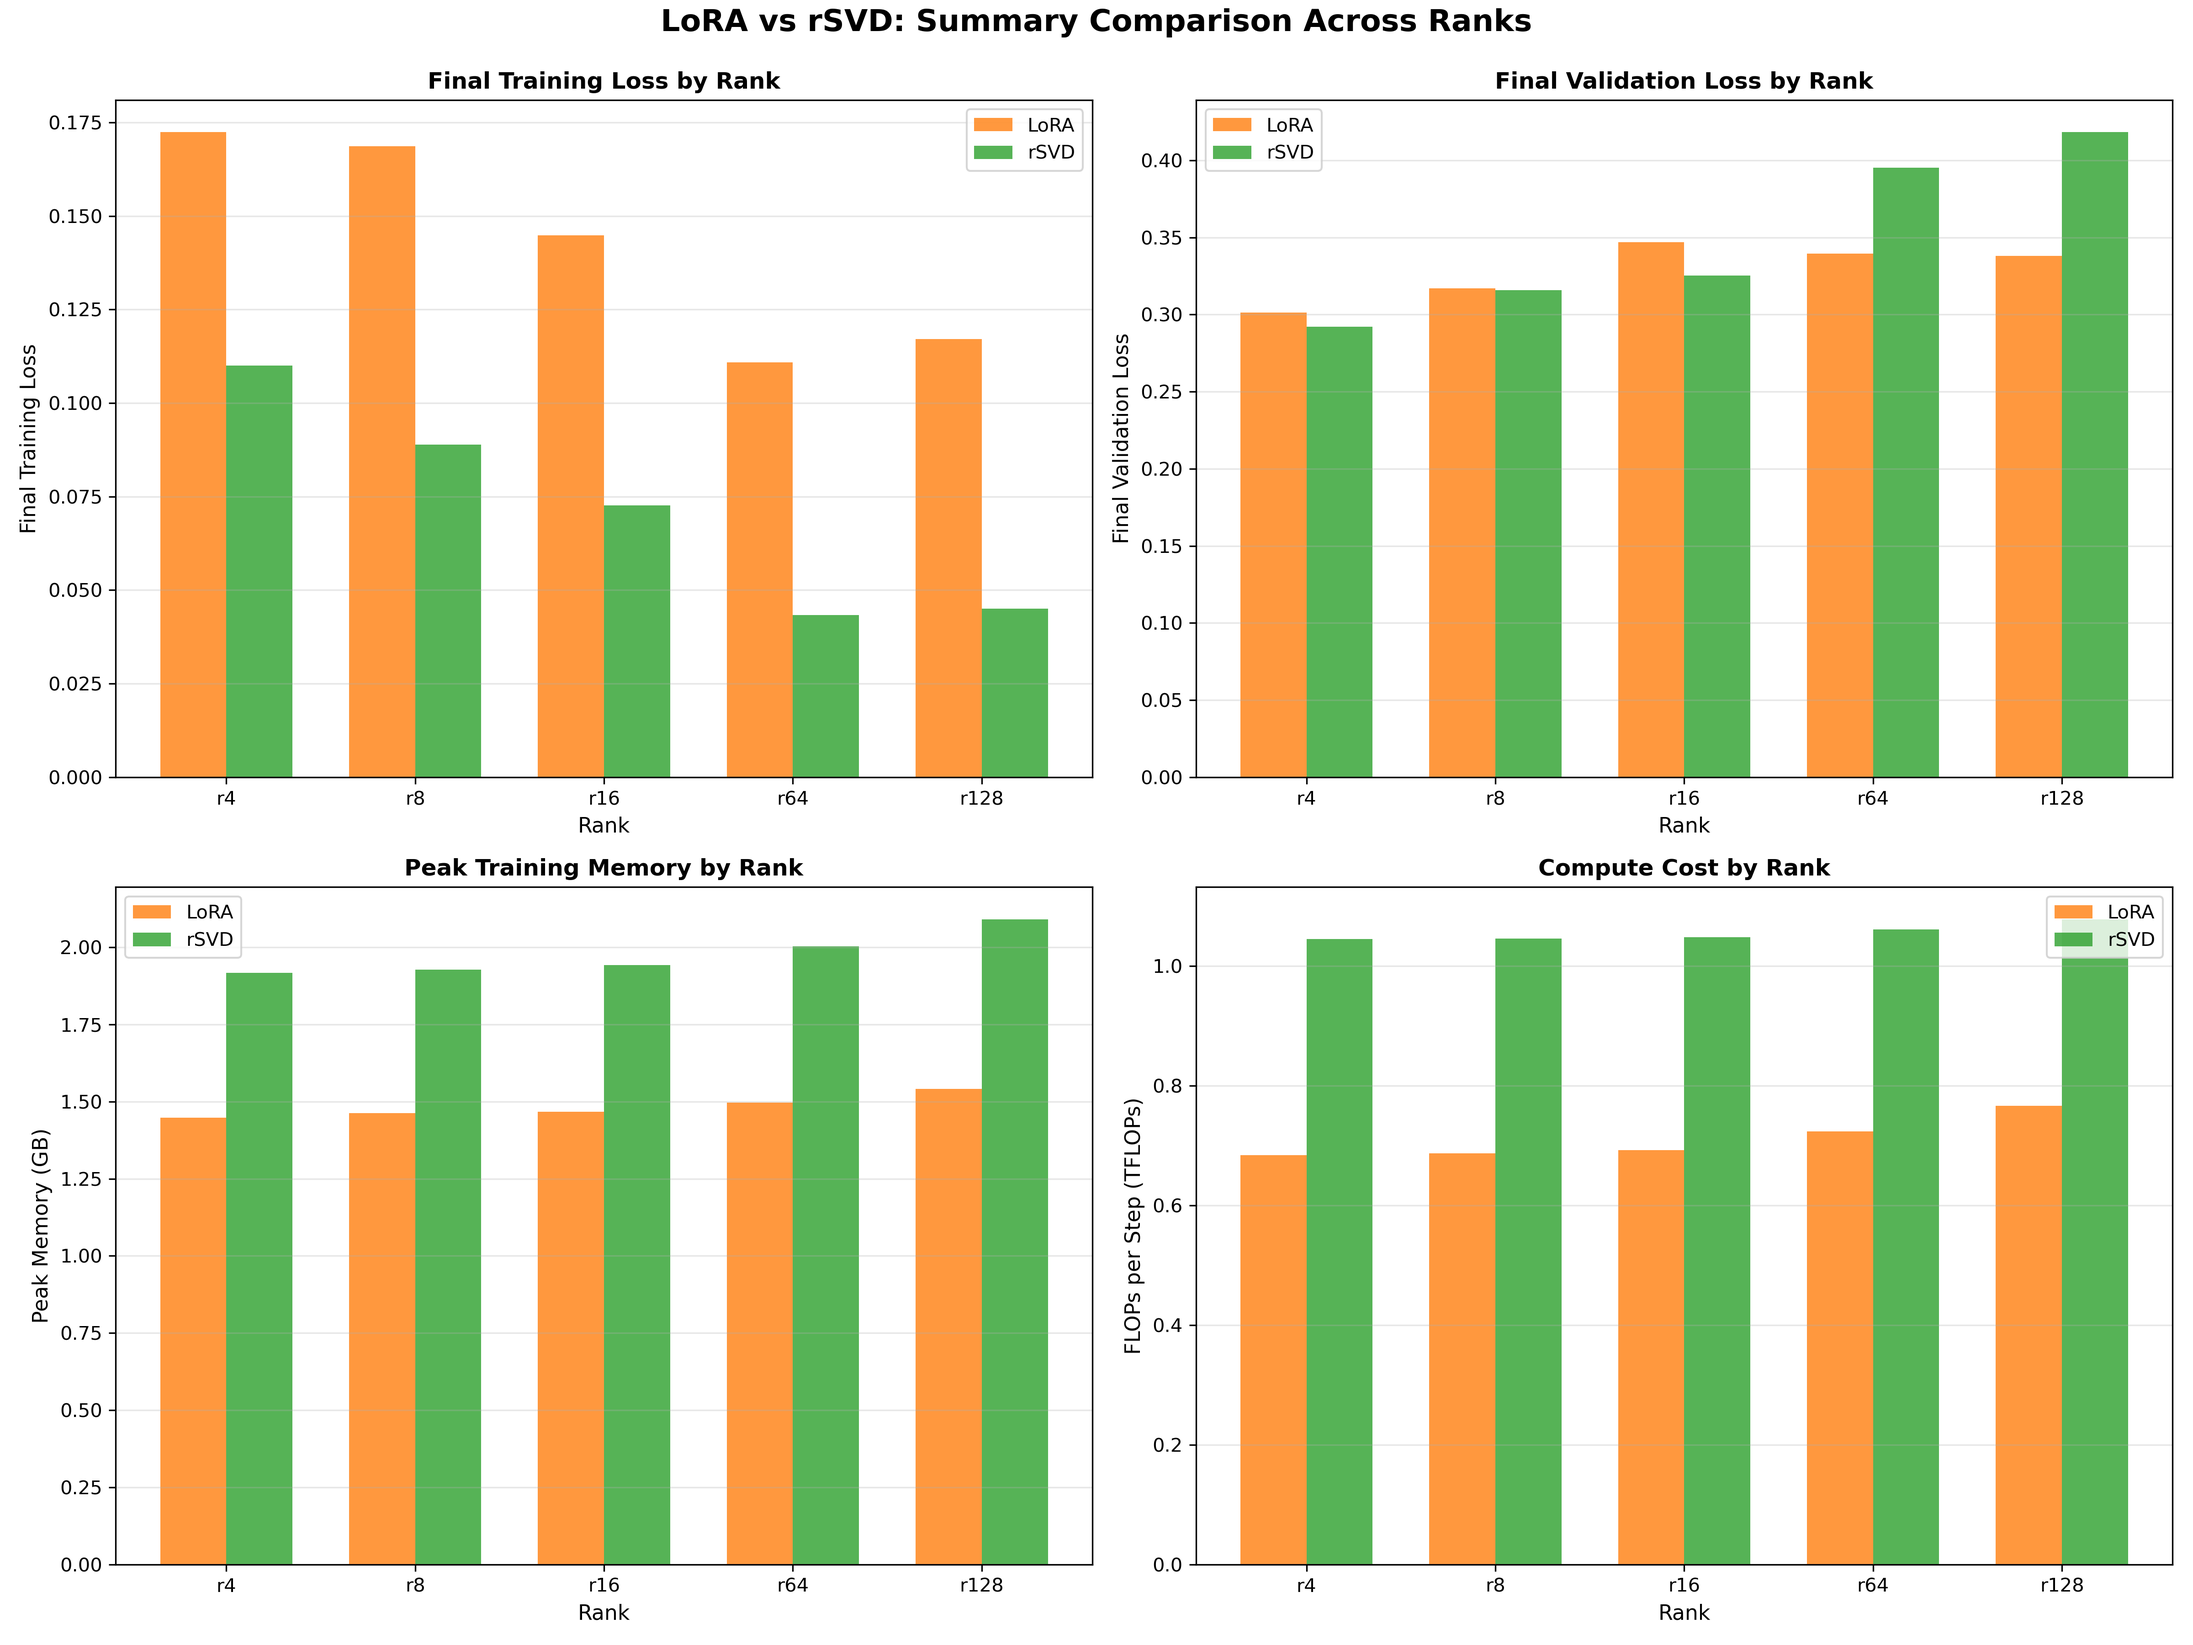
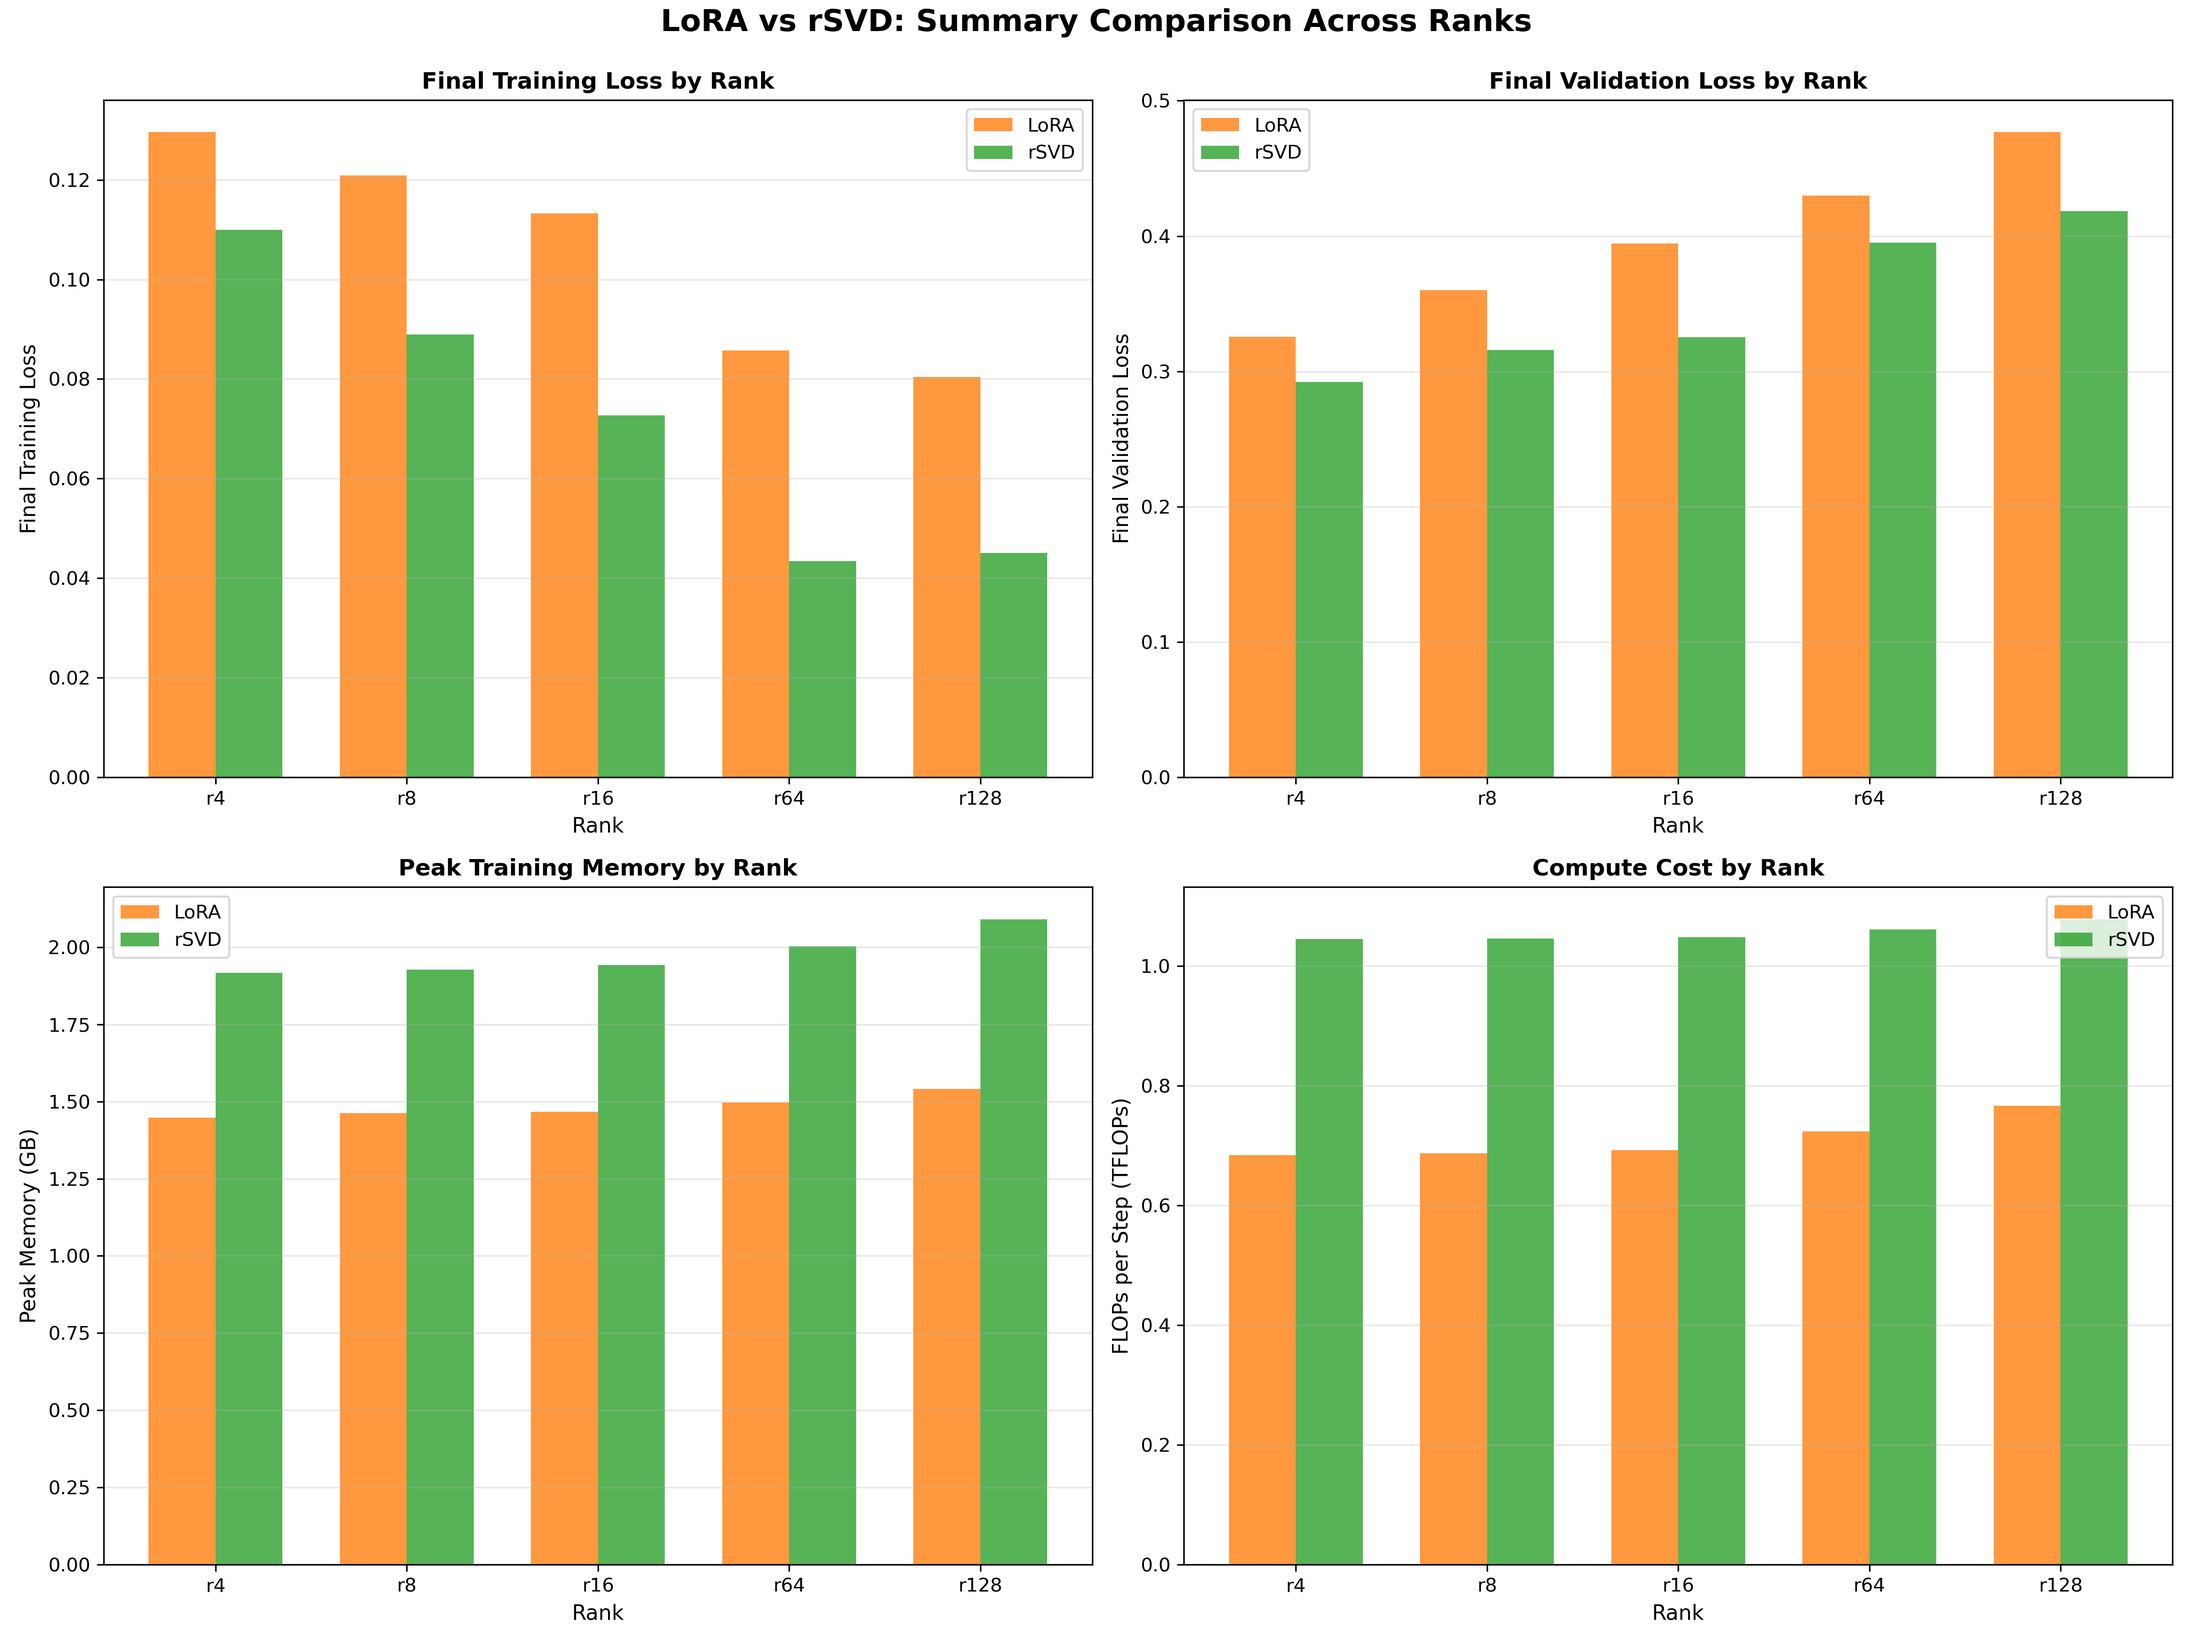
Comparison plots with merged branches

diff --git a/rSVD/graph/compare_lora_rsvd.py b/rSVD/graph/compare_lora_rsvd.py
@@ -21,8 +21,9 @@ import numpy as np
 
 # Configuration
 # Paths relative to where script is run (should be from rSVD/graph directory)
-LORA_BASE_PATH = "../../Lora/graph"
+LORA_BASE_PATH = "../../Lora/graph/sst2"  # LoRA data is in sst2 subdirectory
 RSVD_BASE_PATH = "."
+RSVD_SVT_BASE_PATH = "../../rSVD_SVT_Fixed_Rank/sst/graph"  # rSVD SVT data
 OUTPUT_DIR = "./plots"
 
 # Define which ranks to compare (should match between LoRA and rSVD)
@@ -304,17 +305,19 @@ def plot_memory_vs_rank(lora_data, rsvd_data):
     print("✓ Saved memory_vs_rank.png")
 
 
-def plot_flops_vs_rank(lora_data, rsvd_data):
+def plot_flops_vs_rank(lora_data, rsvd_data, rsvd_svt_data=None):
     """Plot FLOPs per step vs rank."""
-    fig, ax = plt.subplots(figsize=(8, 6))
+    fig, ax = plt.subplots(figsize=(10, 6))
     
     lora_flops = []
     rsvd_flops = []
+    rsvd_svt_flops = []
     available_ranks = []
     
     for rank in RANKS:
         lora_flop = None
         rsvd_flop = None
+        rsvd_svt_flop = None
         
         if rank in lora_data and lora_data[rank] and 'flops' in lora_data[rank]:
             df = lora_data[rank]['flops']
@@ -328,16 +331,26 @@ def plot_flops_vs_rank(lora_data, rsvd_data):
             if len(step_flops) > 0:
                 rsvd_flop = step_flops[0] / 1e12
         
-        if lora_flop is not None or rsvd_flop is not None:
+        if rsvd_svt_data and rank in rsvd_svt_data and rsvd_svt_data[rank] and 'flops' in rsvd_svt_data[rank]:
+            df = rsvd_svt_data[rank]['flops']
+            step_flops = df.loc[df['metric'] == 'step_flops', 'value'].values
+            if len(step_flops) > 0:
+                rsvd_svt_flop = step_flops[0] / 1e12
+        
+        if lora_flop is not None or rsvd_flop is not None or rsvd_svt_flop is not None:
             available_ranks.append(rank)
             lora_flops.append(lora_flop if lora_flop is not None else np.nan)
             rsvd_flops.append(rsvd_flop if rsvd_flop is not None else np.nan)
+            rsvd_svt_flops.append(rsvd_svt_flop if rsvd_svt_flop is not None else np.nan)
     
     if available_ranks:
         ax.plot(available_ranks, lora_flops, marker='o', label='LoRA', 
                 linewidth=2, markersize=8, color='#ff7f0e')
         ax.plot(available_ranks, rsvd_flops, marker='s', label='rSVD', 
                 linewidth=2, markersize=8, color='#2ca02c')
+        if rsvd_svt_data:
+            ax.plot(available_ranks, rsvd_svt_flops, marker='^', label='rSVD SVT', 
+                    linewidth=2, markersize=8, color='#9467bd', linestyle=':')
         ax.set_xlabel('Rank', fontsize=12)
         ax.set_ylabel('FLOPs per Step (TFLOPs)', fontsize=12)
         ax.set_title('Compute Cost (FLOPs per Step) vs Rank', fontsize=14, fontweight='bold')
@@ -346,15 +359,20 @@ def plot_flops_vs_rank(lora_data, rsvd_data):
         ax.set_xticks(available_ranks)
     
     plt.tight_layout()
-    plt.savefig(os.path.join(OUTPUT_DIR, "flops_vs_rank.png"), dpi=300)
+    plt.savefig(os.path.join(OUTPUT_DIR, "flops_comparison_lora_rsvd.png"), dpi=300)
     plt.close()
-    print("✓ Saved flops_vs_rank.png")
+    print("✓ Saved flops_comparison_lora_rsvd.png")
 
 
 def plot_summary_by_rank(lora_data, rsvd_data):
     """Create summary comparison plots grouped by rank."""
-    num_ranks = len([r for r in RANKS if (r in lora_data and lora_data[r]) or (r in rsvd_data and rsvd_data[r])])
-    if num_ranks == 0:
+    # Build list of available ranks (where at least one method has data)
+    ranks_list = []
+    for rank in RANKS:
+        if (rank in lora_data and lora_data[rank]) or (rank in rsvd_data and rsvd_data[rank]):
+            ranks_list.append(rank)
+    
+    if len(ranks_list) == 0:
         return
     
     fig, axes = plt.subplots(2, 2, figsize=(16, 12))
@@ -363,39 +381,31 @@ def plot_summary_by_rank(lora_data, rsvd_data):
     ax = axes[0, 0]
     lora_train = []
     rsvd_train = []
-    ranks_list = []
     
-    for rank in RANKS:
+    for rank in ranks_list:
         if rank in lora_data and lora_data[rank] and 'loss' in lora_data[rank]:
             final_loss = lora_data[rank]['loss']['train_loss'].iloc[-1]
             lora_train.append(final_loss)
-            if rank not in ranks_list:
-                ranks_list.append(rank)
         else:
-            if rank in ranks_list:
-                lora_train.append(np.nan)
+            lora_train.append(np.nan)
         
         if rank in rsvd_data and rsvd_data[rank] and 'loss' in rsvd_data[rank]:
             final_loss = rsvd_data[rank]['loss']['train_loss'].iloc[-1]
             rsvd_train.append(final_loss)
-            if rank not in ranks_list:
-                ranks_list.append(rank)
         else:
-            if rank in ranks_list:
-                rsvd_train.append(np.nan)
+            rsvd_train.append(np.nan)
     
-    if ranks_list:
-        x = np.arange(len(ranks_list))
-        width = 0.35
-        ax.bar(x - width/2, lora_train, width, label='LoRA', color='#ff7f0e', alpha=0.8)
-        ax.bar(x + width/2, rsvd_train, width, label='rSVD', color='#2ca02c', alpha=0.8)
-        ax.set_xlabel('Rank', fontsize=11)
-        ax.set_ylabel('Final Training Loss', fontsize=11)
-        ax.set_title('Final Training Loss by Rank', fontsize=12, fontweight='bold')
-        ax.set_xticks(x)
-        ax.set_xticklabels([f'r{r}' for r in ranks_list])
-        ax.legend()
-        ax.grid(True, alpha=0.3, axis='y')
+    x = np.arange(len(ranks_list))
+    width = 0.35
+    ax.bar(x - width/2, lora_train, width, label='LoRA', color='#ff7f0e', alpha=0.8)
+    ax.bar(x + width/2, rsvd_train, width, label='rSVD', color='#2ca02c', alpha=0.8)
+    ax.set_xlabel('Rank', fontsize=11)
+    ax.set_ylabel('Final Training Loss', fontsize=11)
+    ax.set_title('Final Training Loss by Rank', fontsize=12, fontweight='bold')
+    ax.set_xticks(x)
+    ax.set_xticklabels([f'r{r}' for r in ranks_list])
+    ax.legend()
+    ax.grid(True, alpha=0.3, axis='y')
     
     # 2. Final Validation Loss by Rank
     ax = axes[0, 1]
@@ -421,16 +431,15 @@ def plot_summary_by_rank(lora_data, rsvd_data):
         else:
             rsvd_eval.append(np.nan)
     
-    if ranks_list:
-        ax.bar(x - width/2, lora_eval, width, label='LoRA', color='#ff7f0e', alpha=0.8)
-        ax.bar(x + width/2, rsvd_eval, width, label='rSVD', color='#2ca02c', alpha=0.8)
-        ax.set_xlabel('Rank', fontsize=11)
-        ax.set_ylabel('Final Validation Loss', fontsize=11)
-        ax.set_title('Final Validation Loss by Rank', fontsize=12, fontweight='bold')
-        ax.set_xticks(x)
-        ax.set_xticklabels([f'r{r}' for r in ranks_list])
-        ax.legend()
-        ax.grid(True, alpha=0.3, axis='y')
+    ax.bar(x - width/2, lora_eval, width, label='LoRA', color='#ff7f0e', alpha=0.8)
+    ax.bar(x + width/2, rsvd_eval, width, label='rSVD', color='#2ca02c', alpha=0.8)
+    ax.set_xlabel('Rank', fontsize=11)
+    ax.set_ylabel('Final Validation Loss', fontsize=11)
+    ax.set_title('Final Validation Loss by Rank', fontsize=12, fontweight='bold')
+    ax.set_xticks(x)
+    ax.set_xticklabels([f'r{r}' for r in ranks_list])
+    ax.legend()
+    ax.grid(True, alpha=0.3, axis='y')
     
     # 3. Peak Memory by Rank
     ax = axes[1, 0]
@@ -448,16 +457,15 @@ def plot_summary_by_rank(lora_data, rsvd_data):
         else:
             rsvd_mem.append(np.nan)
     
-    if ranks_list:
-        ax.bar(x - width/2, lora_mem, width, label='LoRA', color='#ff7f0e', alpha=0.8)
-        ax.bar(x + width/2, rsvd_mem, width, label='rSVD', color='#2ca02c', alpha=0.8)
-        ax.set_xlabel('Rank', fontsize=11)
-        ax.set_ylabel('Peak Memory (GB)', fontsize=11)
-        ax.set_title('Peak Training Memory by Rank', fontsize=12, fontweight='bold')
-        ax.set_xticks(x)
-        ax.set_xticklabels([f'r{r}' for r in ranks_list])
-        ax.legend()
-        ax.grid(True, alpha=0.3, axis='y')
+    ax.bar(x - width/2, lora_mem, width, label='LoRA', color='#ff7f0e', alpha=0.8)
+    ax.bar(x + width/2, rsvd_mem, width, label='rSVD', color='#2ca02c', alpha=0.8)
+    ax.set_xlabel('Rank', fontsize=11)
+    ax.set_ylabel('Peak Memory (GB)', fontsize=11)
+    ax.set_title('Peak Training Memory by Rank', fontsize=12, fontweight='bold')
+    ax.set_xticks(x)
+    ax.set_xticklabels([f'r{r}' for r in ranks_list])
+    ax.legend()
+    ax.grid(True, alpha=0.3, axis='y')
     
     # 4. FLOPs by Rank
     ax = axes[1, 1]
@@ -485,16 +493,15 @@ def plot_summary_by_rank(lora_data, rsvd_data):
         else:
             rsvd_flops.append(np.nan)
     
-    if ranks_list:
-        ax.bar(x - width/2, lora_flops, width, label='LoRA', color='#ff7f0e', alpha=0.8)
-        ax.bar(x + width/2, rsvd_flops, width, label='rSVD', color='#2ca02c', alpha=0.8)
-        ax.set_xlabel('Rank', fontsize=11)
-        ax.set_ylabel('FLOPs per Step (TFLOPs)', fontsize=11)
-        ax.set_title('Compute Cost by Rank', fontsize=12, fontweight='bold')
-        ax.set_xticks(x)
-        ax.set_xticklabels([f'r{r}' for r in ranks_list])
-        ax.legend()
-        ax.grid(True, alpha=0.3, axis='y')
+    ax.bar(x - width/2, lora_flops, width, label='LoRA', color='#ff7f0e', alpha=0.8)
+    ax.bar(x + width/2, rsvd_flops, width, label='rSVD', color='#2ca02c', alpha=0.8)
+    ax.set_xlabel('Rank', fontsize=11)
+    ax.set_ylabel('FLOPs per Step (TFLOPs)', fontsize=11)
+    ax.set_title('Compute Cost by Rank', fontsize=12, fontweight='bold')
+    ax.set_xticks(x)
+    ax.set_xticklabels([f'r{r}' for r in ranks_list])
+    ax.legend()
+    ax.grid(True, alpha=0.3, axis='y')
     
     plt.suptitle('LoRA vs rSVD: Summary Comparison Across Ranks', fontsize=16, fontweight='bold', y=0.995)
     plt.tight_layout()
@@ -515,15 +522,24 @@ def main():
     print("Loading data...")
     lora_data = {}
     rsvd_data = {}
+    rsvd_svt_data = {}
     
     for rank in RANKS:
         lora_data[rank] = load_data(LORA_BASE_PATH, rank, "LoRA")
         rsvd_data[rank] = load_data(RSVD_BASE_PATH, rank, "rSVD")
         
+        # Try to load rSVD SVT data if path exists
+        if os.path.exists(RSVD_SVT_BASE_PATH):
+            rsvd_svt_data[rank] = load_data(RSVD_SVT_BASE_PATH, rank, "rSVD SVT")
+        else:
+            rsvd_svt_data[rank] = None
+        
         if lora_data[rank]:
             print(f"  ✓ Loaded LoRA r{rank}")
         if rsvd_data[rank]:
             print(f"  ✓ Loaded rSVD r{rank}")
+        if rsvd_svt_data[rank]:
+            print(f"  ✓ Loaded rSVD SVT r{rank}")
     
     print("\nGenerating comparison plots...")
     print("-" * 80)
@@ -532,7 +548,7 @@ def main():
     plot_loss_comparison_across_ranks(lora_data, rsvd_data)
     plot_final_loss_vs_rank(lora_data, rsvd_data)
     plot_memory_vs_rank(lora_data, rsvd_data)
-    plot_flops_vs_rank(lora_data, rsvd_data)
+    plot_flops_vs_rank(lora_data, rsvd_data, rsvd_svt_data if any(rsvd_svt_data.values()) else None)
     plot_summary_by_rank(lora_data, rsvd_data)
     
     print("\n" + "=" * 80)
@@ -542,7 +558,7 @@ def main():
     print("  - loss_comparison_across_ranks.png")
     print("  - final_loss_vs_rank.png")
     print("  - memory_vs_rank.png")
-    print("  - flops_vs_rank.png")
+    print("  - flops_comparison_lora_rsvd.png")
     print("  - summary_comparison_across_ranks.png")
 
 
